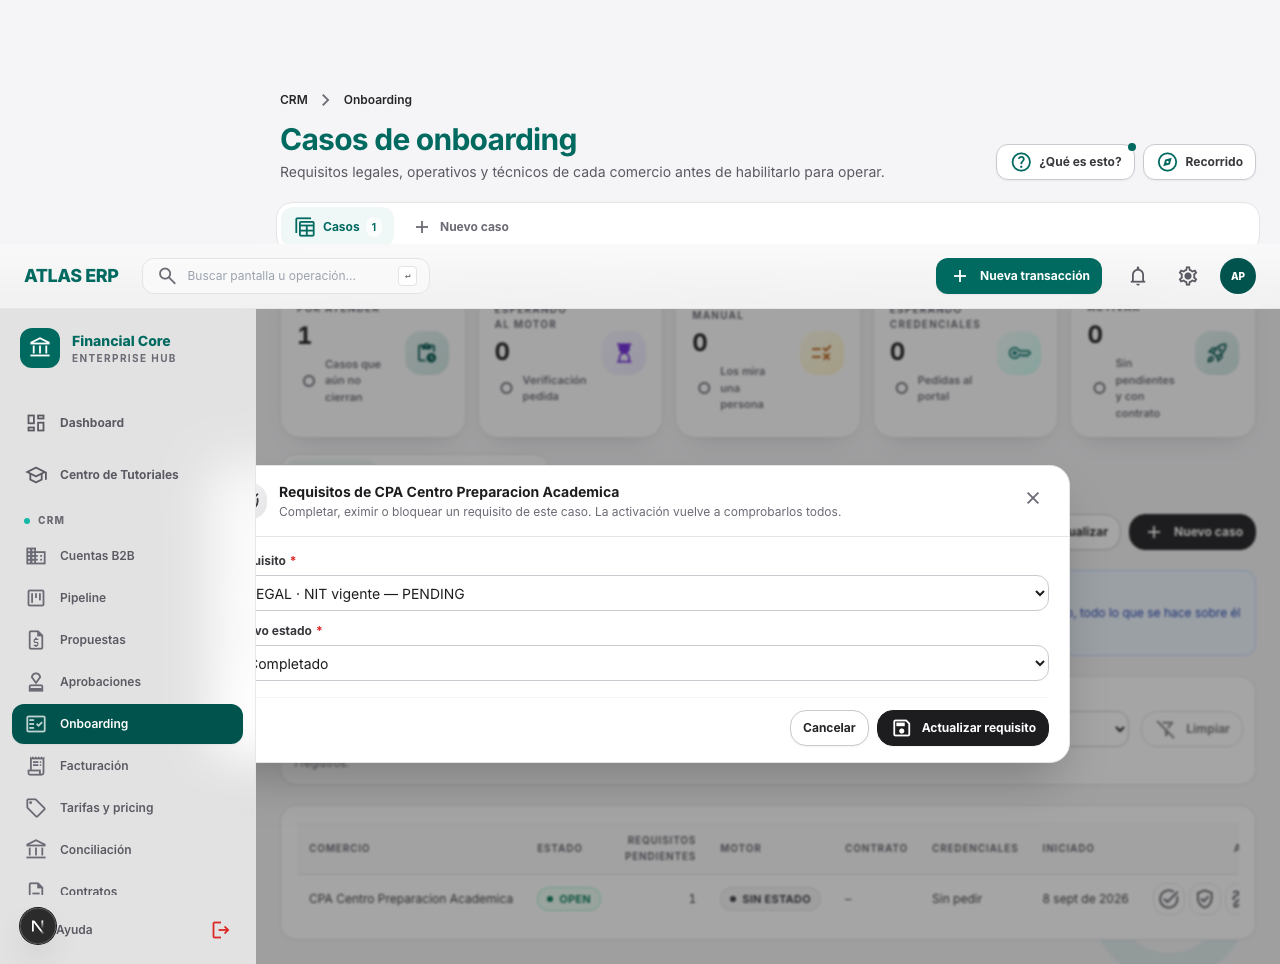
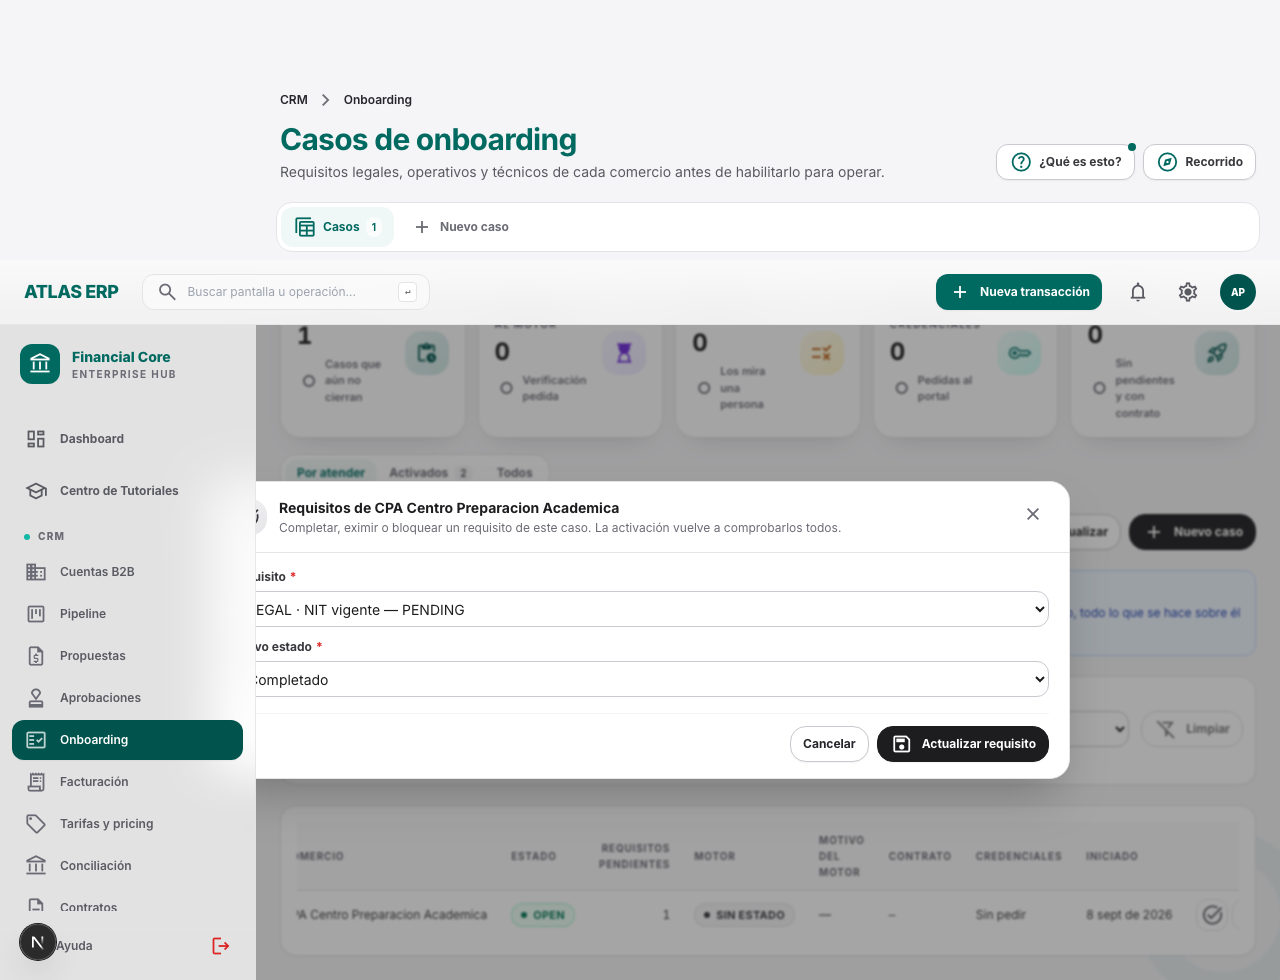
onboarding: el motivo del Motor y los enlaces a su traza en la fila, y un solo acuse por carga
Columna «Motivo del Motor» (`decisionReason`, tal cual lo publicó) y dos acciones de fila que
llevan a la ejecución y al caso de revisión manual en el portal del Motor; sólo se pintan con
`NEXT_PUBLIC_DECISION_ENGINE_URL` configurada, porque un enlace a una pantalla que no existe hace
dudar del dato. El acuse al abrir la cola es UNA llamada (`cases/reconcile-pending`) en vez de una
por fila. El paso del recorrido apuntaba al formulario de la pestaña oculta; ahora a la tabla.

diff --git a/app/operaciones/crm/onboarding/page.tsx b/app/operaciones/crm/onboarding/page.tsx
@@ -17,6 +17,7 @@ import { useAsyncResource } from '@/hooks/useAsyncResource';
 import { b2bService } from '@/services/b2bService';
 import { portalService } from '@/services/portalService';
 import { merchantCategoryOptions, riskTierOptions } from '@/lib/catalogs';
+import { engineExecutionUrl, engineManualReviewUrl } from '@/lib/engineLinks';
 import type { JsonObject, ResourceRow } from '@/services/types';
 
 const ESTADO_FINAL = 'COMPLETED';
@@ -56,15 +57,11 @@ export default function OnboardingPage() {
   const load = useCallback(async () => {
     const primera = await b2bService.listOnboardingCases({ scope, limit: 200 });
     const filas = primera.items ?? [];
-    const esperandoCredenciales = filas.filter((row) => Number((row.credentials as { pendientes?: number } | undefined)?.pendientes ?? 0) > 0);
-    const esperandoMotor = filas.filter((row) => ESPERA_AL_MOTOR.has(String(row.status ?? '')));
-    if (esperandoCredenciales.length === 0 && esperandoMotor.length === 0) return primera;
-    const acuses = await Promise.allSettled([
-      ...esperandoCredenciales.map((row) => b2bService.reconcileCaseIdentity(String(row.id ?? ''))),
-      ...esperandoMotor.map((row) => b2bService.syncKybDecision(String(row.id ?? ''))),
-    ]);
-    const cambio = acuses.some((acuse) => acuse.status === 'fulfilled' && ((Array.isArray(acuse.value.resueltos) && acuse.value.resueltos.length > 0) || acuse.value.changed === true));
-    return cambio ? b2bService.listOnboardingCases({ scope, limit: 200 }) : primera;
+    const esperando = filas.some((row) => ESPERA_AL_MOTOR.has(String(row.status ?? '')) || Number((row.credentials as { pendientes?: number } | undefined)?.pendientes ?? 0) > 0);
+    if (!esperando) return primera;
+    // UNA llamada para todo lo pendiente; sin token de Atlas falla en silencio y la cola se pinta igual.
+    const acuse = await b2bService.reconcilePendingCases().catch(() => null);
+    return Number(acuse?.cambiados ?? 0) > 0 ? b2bService.listOnboardingCases({ scope, limit: 200 }) : primera;
     // eslint-disable-next-line react-hooks/exhaustive-deps
   }, [scope, version]);
   // eslint-disable-next-line react-hooks/exhaustive-deps
@@ -112,6 +109,7 @@ export default function OnboardingPage() {
                     { key: 'status', label: 'Estado', kind: 'status' },
                     { key: 'pendingItems', label: 'Requisitos pendientes', align: 'right' },
                     { key: 'decisionOutcome', label: 'Motor', kind: 'status' },
+                    { key: 'decisionReason', label: 'Motivo del Motor' },
                     { key: 'contractNumber', label: 'Contrato', kind: 'mono' },
                     { key: 'credentialsSummary', label: 'Credenciales' },
                     { key: 'startedAt', label: 'Iniciado', kind: 'date' },
@@ -168,6 +166,20 @@ export default function OnboardingPage() {
                         submit: (row, payload: JsonObject) => b2bService.requestKybReview(String(row.id ?? ''), payload),
                         submitLabel: 'Pedir verificación',
                       },
+                    },
+                    {
+                      key: 'ejecucion',
+                      label: 'Ver ejecución en el Motor',
+                      icon: 'open_in_new',
+                      enabled: (row) => engineExecutionUrl(String(row.decisionExecutionId ?? '') || null) !== null,
+                      href: (row) => engineExecutionUrl(String(row.decisionExecutionId ?? '')) ?? '#',
+                    },
+                    {
+                      key: 'caso-motor',
+                      label: 'Ver caso de revisión manual',
+                      icon: 'rule',
+                      enabled: (row) => engineManualReviewUrl(String(row.manualReviewCaseCode ?? '') || null) !== null,
+                      href: (row) => engineManualReviewUrl(String(row.manualReviewCaseCode ?? '')) ?? '#',
                     },
                     {
                       key: 'sincronizar',

diff --git a/lib/engineLinks.ts b/lib/engineLinks.ts
@@ -1,0 +1,23 @@
+/**
+ * Enlaces al Motor de Decisión desde el ERP.
+ *
+ * El ERP no decide nada del KYB —pide, y guarda lo que el Motor publicó—, así que lo único honesto
+ * que puede ofrecer sobre una decisión es llevar a donde está la traza. Sin
+ * `NEXT_PUBLIC_DECISION_ENGINE_URL` no se pinta ningún enlace: un enlace a una pantalla que no
+ * existe hace dudar de si el dato está mal. Mismo criterio que `engine-links.ts` del portal interno.
+ */
+const BASE = (process.env.NEXT_PUBLIC_DECISION_ENGINE_URL ?? '').replace(/\/+$/, '');
+
+export function engineConfigurado(): boolean {
+  return BASE.length > 0;
+}
+
+export function engineExecutionUrl(executionId: string | null | undefined): string | null {
+  if (!engineConfigurado() || !executionId) return null;
+  return `${BASE}/executions/${encodeURIComponent(executionId)}`;
+}
+
+export function engineManualReviewUrl(caseCode: string | null | undefined): string | null {
+  if (!engineConfigurado() || !caseCode) return null;
+  return `${BASE}/manual-reviews/${encodeURIComponent(caseCode)}`;
+}

diff --git a/services/b2bService.ts b/services/b2bService.ts
@@ -231,6 +231,10 @@ export const b2bService = {
     const caseId = requireUuidPathParam(onboardingCaseId, 'el UUID del caso de onboarding');
     return apiRequest<ResourceRow>(`/b2b/onboarding/cases/${caseId}/partner-link`, { method: 'POST', body: {} });
   },
+  /** Un solo acuse para todo lo que espera al portal o al Motor: una llamada por carga de la cola. */
+  reconcilePendingCases() {
+    return apiRequest<ResourceRow>('/b2b/onboarding/cases/reconcile-pending', { method: 'POST', body: {} });
+  },
   /** El acuse: pregunta a Atlas en qué quedaron las credenciales pedidas para el comercio del caso. */
   reconcileCaseIdentity(onboardingCaseId: string) {
     const caseId = requireUuidPathParam(onboardingCaseId, 'el UUID del caso de onboarding');

diff --git a/components/tutorial/tours/tour-crm.ts b/components/tutorial/tours/tour-crm.ts
@@ -114,7 +114,7 @@ export const TOURS_CRM: readonly InteractiveTutorial[] = [
       },
       {
         id: 'requisitos',
-        target: '[data-tutorial-id="onboarding-checklist"]',
+        target: '[data-tutorial-id="crud-tabla"]',
         title: 'Cada requisito bloquea la activación',
         content:
           'Legales, operativos y técnicos. Mientras quede uno pendiente el comercio no se activa, y eso es deliberado: activar sin los papeles es justo el riesgo que este caso existe para impedir. Para cerrar uno, usa «Mover un requisito» en la fila del caso.',
